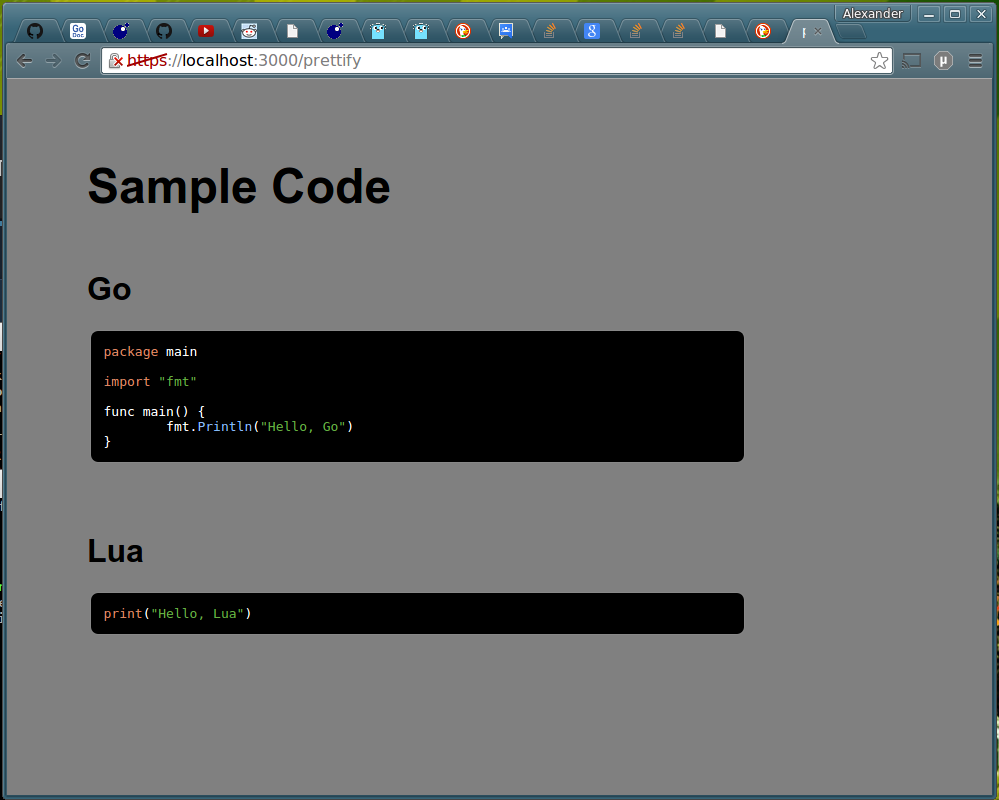
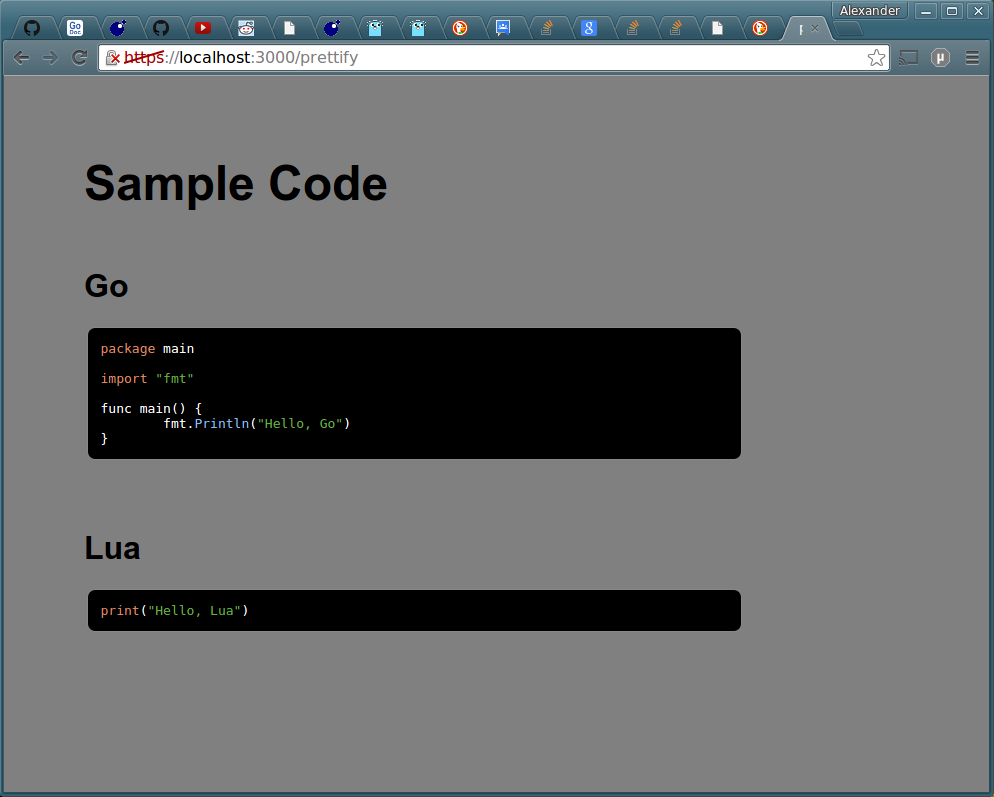
Better screenshot

diff --git a/README.md b/README.md
@@ -11,6 +11,14 @@ Technologies
 Written in [Go](https://golang.org). Uses [Redis](https://redis.io) as the database backend, [permissions2](https://github.com/xyproto/permissions2) for handling users and permissions, [gopher-lua](https://github.com/yuin/gopher-lua) for interpreting and running Lua, [http2](https://github.com/bradfitz/http2) for serving HTTP/2 and [blackfriday](https://github.com/russross/blackfriday) for Markdown rendering.
 
 
+Screenshot
+----------
+
+<img src="https://raw.github.com/xyproto/algernon/master/img/screenshot.png">
+
+Screenshot of the "prettify" example. Served from a single lua script.
+
+
 Design decisions
 ----------------
 
@@ -26,12 +34,6 @@ Design decisions
 * Directories without an index file are shown as a directory listing, where the design is hardcoded.
 * Redis is used for the database backend.
 * UTF-8 is used whenever possible.
-
-
-Screenshot of one of the examples
----------------------------------
-
-<img src="https://raw.github.com/xyproto/algernon/master/img/screenshot.png">
 
 
 LUA functions for handling requests
